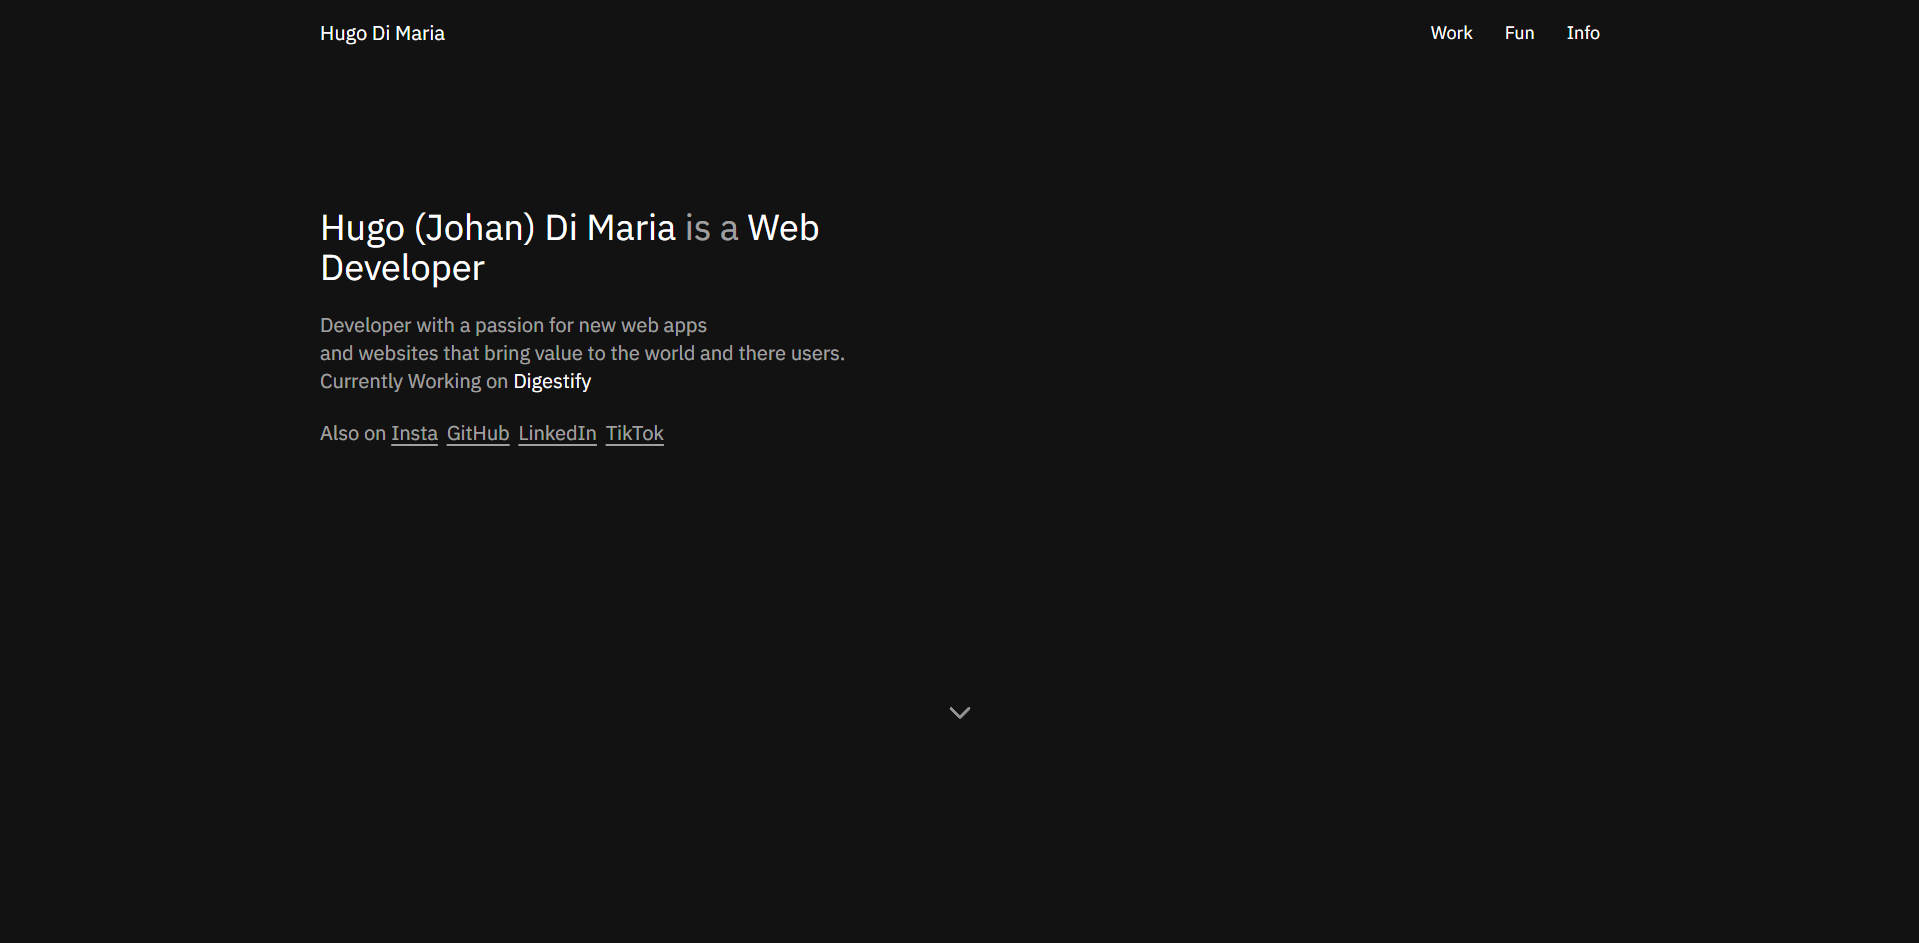
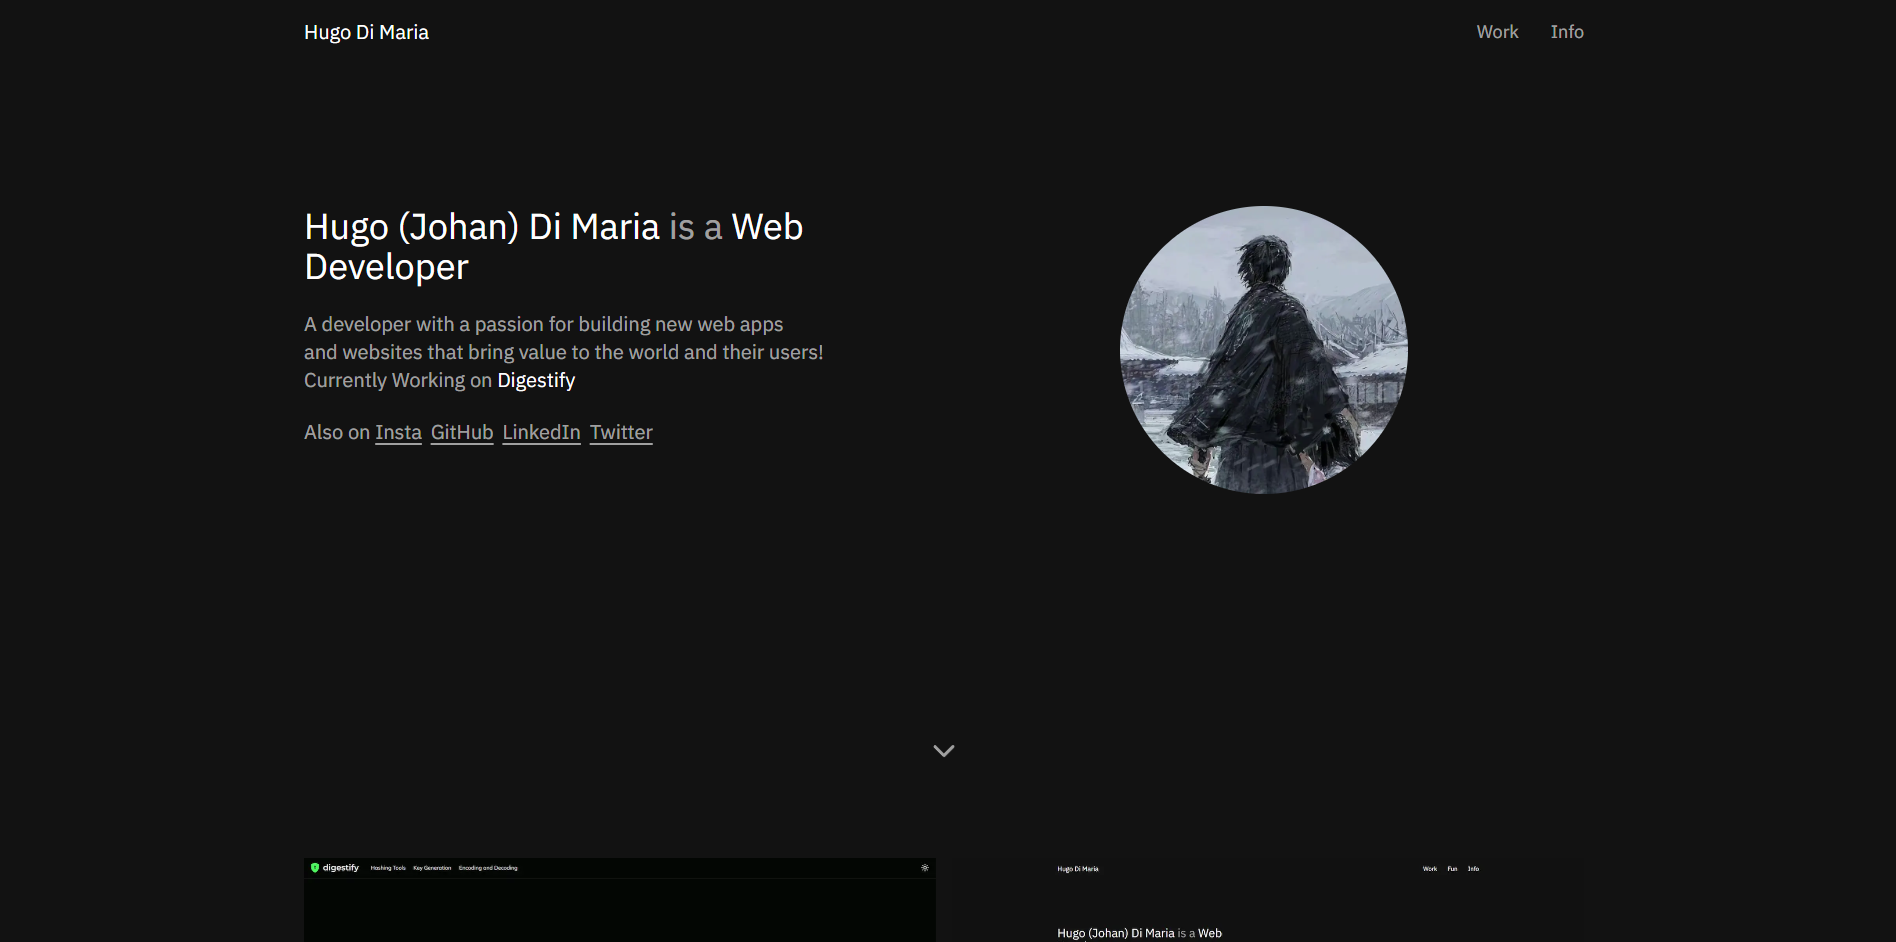
tweaks

diff --git a/components/Header.tsx b/components/Header.tsx
@@ -19,14 +19,26 @@ const Header = () => {
 
   return (
     <>
-      <header className="fixed py-5 xl:px-0 px-6 max-w-7xl mx-auto w-full flex justify-between items-center z-10 text-white bg-[#121212]">
+      <header className="fixed py-5 xl:px-0 px-6 max-w-7xl mx-auto w-full flex justify-between items-center z-10 bg-[#121212]">
         <div className="select-none text-xl">
-          <Link href="/">Hugo Di Maria</Link>
+          <Link href="/" className="text-white">
+            Hugo Di Maria
+          </Link>
         </div>
 
         <nav className="hidden md:flex gap-8 text-lg">
-          <Link href="/#work">Work</Link>
-          <Link href="/#info">Info</Link>
+          <Link
+            href="/#work"
+            className="hover:text-white transition ease-in-out duration-300"
+          >
+            Work
+          </Link>
+          <Link
+            href="/#info"
+            className="hover:text-white transition ease-in-out duration-300"
+          >
+            Info
+          </Link>
         </nav>
 
         <button

diff --git a/app/page.tsx b/app/page.tsx
@@ -74,7 +74,7 @@ export default function Home() {
             </motion.h1>
             <br />
             <motion.p className="text-xl" variants={itemVariants}>
-              Developer with a passion for building new web apps <br /> and
+              A developer with a passion for building new web apps <br /> and
               websites that bring value to the world and their users! <br />{" "}
               Currently Working on{" "}
               <Link
@@ -134,11 +134,10 @@ export default function Home() {
       </motion.section>
 
       <motion.div
-        className="2xl:mt-10 hidden select-none w-max h-max lg:flex mx-auto cursor-pointer"
+        className="2xl:mt-10 hidden select-none w-max h-max lg:flex mx-auto cursor-pointer animate-bounce"
         initial="hidden"
         animate="visible"
         variants={scrollIndicatorVariants}
-        whileHover="bounce"
       >
         <ChevronDown size={36} />
       </motion.div>

diff --git a/app/globals.css b/app/globals.css
@@ -19,3 +19,23 @@ body {
   color: black;
   background: white;
 }
+
+/* width */
+::-webkit-scrollbar {
+  width: 10px;
+}
+
+/* Track */
+::-webkit-scrollbar-track {
+  background: #f1f1f1;
+}
+
+/* Handle */
+::-webkit-scrollbar-thumb {
+  background: #888;
+}
+
+/* Handle on hover */
+::-webkit-scrollbar-thumb:hover {
+  background: #555;
+}
